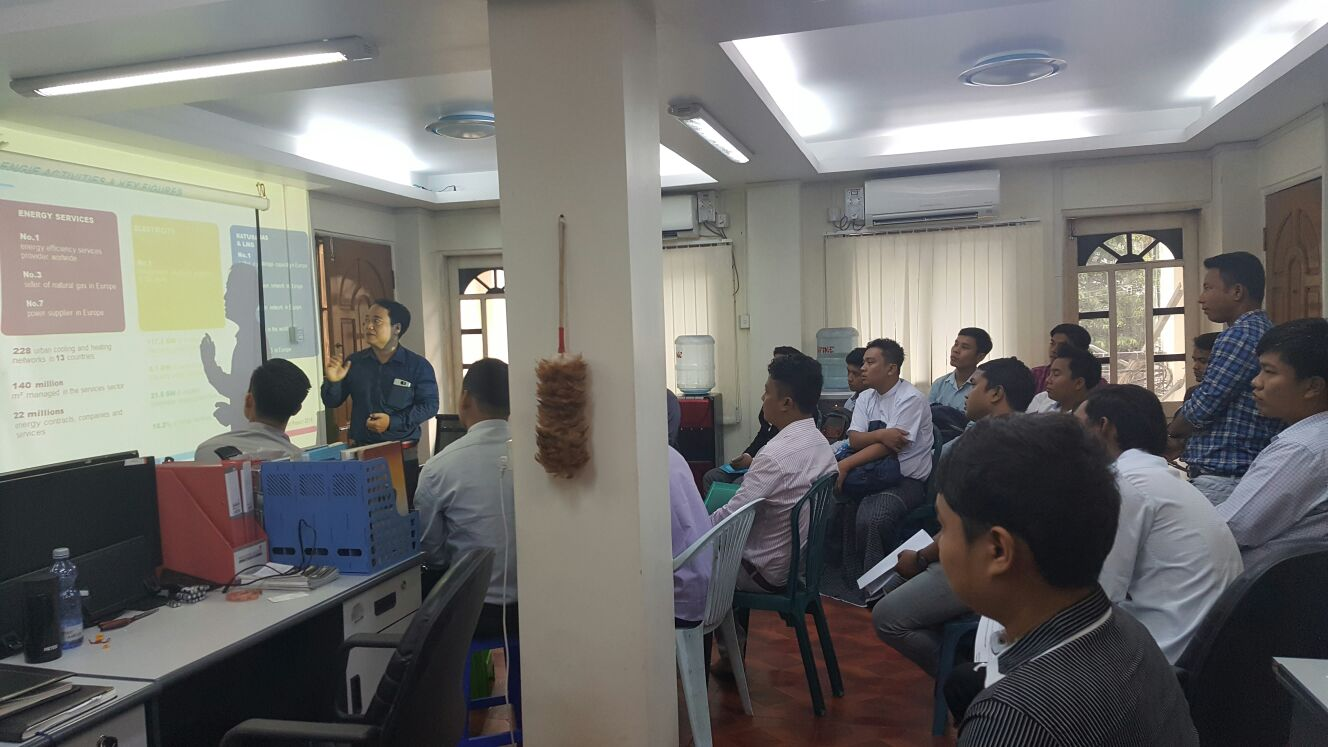
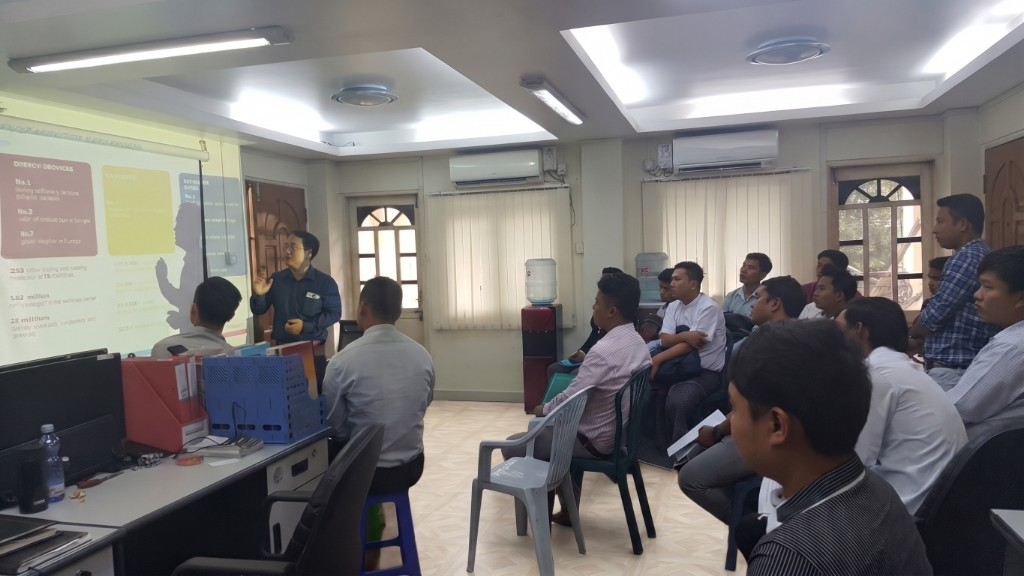
Replace the Engie interview gallery photo with the wider shot.

diff --git a/training.html b/training.html
@@ -38,7 +38,7 @@
     <link rel="preconnect" href="https://script.google.com" crossorigin />
     <link rel="dns-prefetch" href="https://script.googleusercontent.com" />
     <link rel="preload" href="js/sheets-news.js?v=20260921c" as="script" crossorigin />
-    <link rel="stylesheet" href="css/style.css?v=20261003g" />
+    <link rel="stylesheet" href="css/style.css?v=20261102i" />
     <script>try{var h=document.documentElement,t=localStorage.getItem("globalhr_theme");if(t==="dark")h.classList.add("dark");else h.classList.remove("dark");var l=localStorage.getItem("globalhr_lang");if(l==="ja"||l==="ko"||l==="ru"){h.lang=l;h.setAttribute("data-lang",l)}else{h.lang="en";h.setAttribute("data-lang","en")}}catch(e){}setTimeout(function(){document.documentElement.classList.add("i18n-ready")},1500);</script>
     <script src="js/i18n.js?v=20261101d"></script>
     <script src="js/i18n-ko-ru.js?v=20261101d"></script>
@@ -550,7 +550,7 @@
               <figcaption data-i18n="training.g21">Conducting Theory Test for Safety (Myanmar)</figcaption>
             </figure>
             <figure>
-              <img src="assets/images/photos/gallery/training-gallery-22-engie-technician-interview-changi.jpeg?v=20260827" alt="Interview for technicians for Engie Service at Changi Airport" loading="lazy" decoding="async" />
+              <img src="assets/images/photos/gallery/training-gallery-22-engie-technician-interview-changi.jpeg?v=20261102i" alt="Interview for technicians for Engie Service at Changi Airport" loading="lazy" decoding="async" />
               <figcaption data-i18n="training.g22">Interview for Technicians for Engie Service All S-Pass for Changi Airport</figcaption>
             </figure>
             <figure>

diff --git a/css/style.css b/css/style.css
@@ -4125,6 +4125,10 @@ html.dark .training-gallery-grid figure {
   transition: transform 0.45s ease;
 }
 
+.training-gallery-grid img[src*="training-gallery-22"] {
+  object-position: 18% 42%;
+}
+
 .training-gallery-grid figure:hover img,
 .training-gallery-grid figure:focus-within img {
   transform: scale(1.04);
